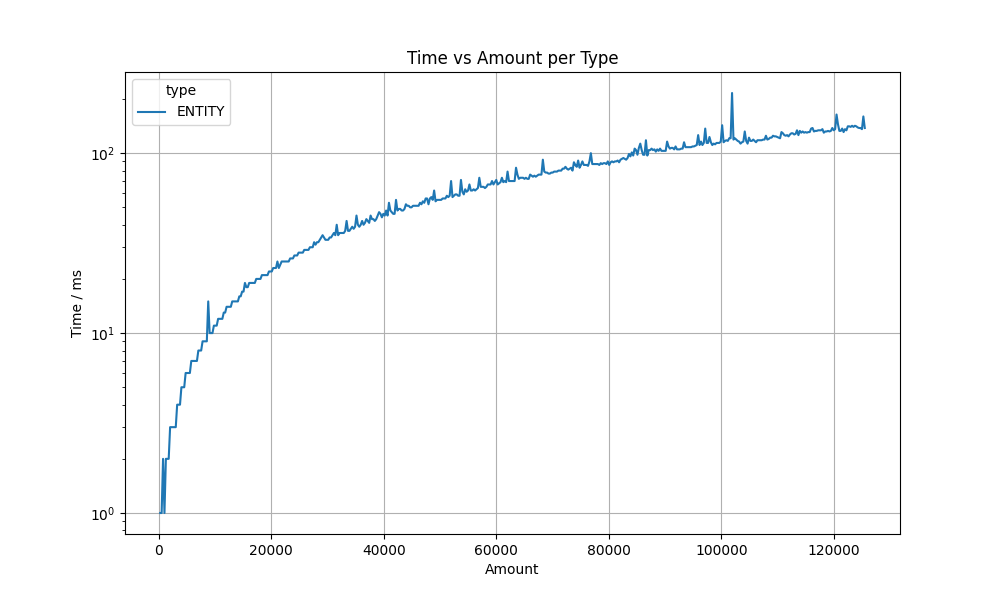
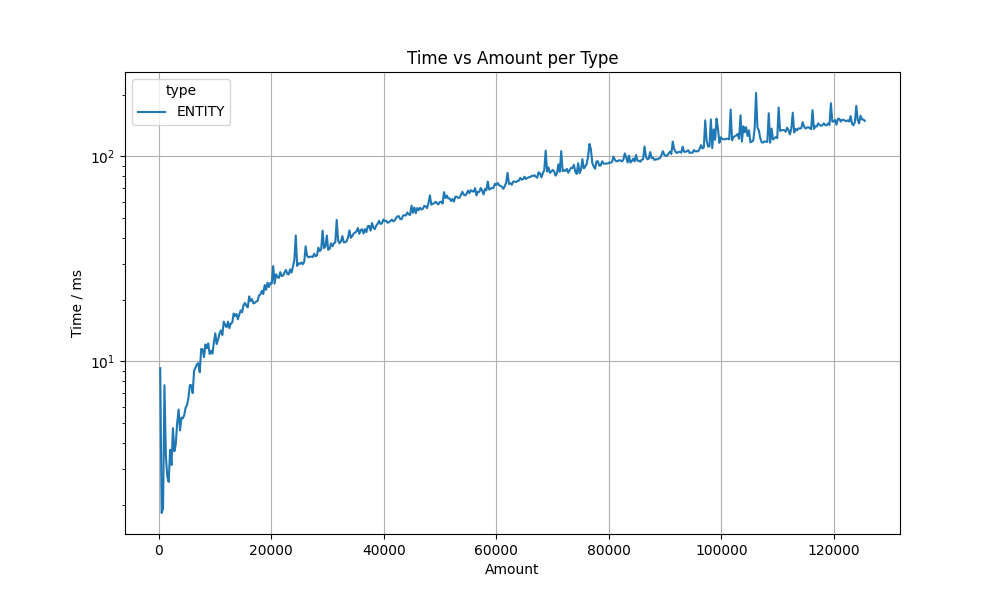
Update

diff --git a/docs/css/style.css b/docs/css/style.css
@@ -2,12 +2,6 @@ body {
     margin: 0 auto;
 }
 
-.grid-container {
-    display: grid;
-    grid-template-rows: min-content 1fr min-content;
-    min-height: 100vh;
-}
-
 .header {
     grid-row: 1;
     background-color: #333333;
@@ -16,40 +10,72 @@ body {
     justify-content: space-between;
 }
 
+.header-title {
+    display: flex;
+    align-items: center;
+    margin: 1rem;
+    font-size: 2em;
+    font-weight: bold;
+}
+
 .footer {
     grid-row: 3;
     background-color: #333333;
     color: #FFFFFF;
 }
 
+.grid-container {
+    display: grid;
+    grid-template-rows: min-content 1fr min-content;
+    height: 100vh;
+}
+
+.grid-item-content {
+    display: flex;
+    max-height: 100%;
+    overflow-y: hidden;
+}
+
 .flex-container-content {
     display: flex;
     flex-direction: row;
-    height: 100%;
+    max-height: 100%;
 }
 
 .flex-container-content-post {
     display: flex;
     flex-direction: column;
     align-items: center;
-    margin: 1rem;
+    padding: 1rem;
+    max-height: 100%;
+    overflow-y: scroll;
 }
 
 .content-flex-sidebar {
+    display: flex;
+    justify-content: center;
     flex: 0 0 15%;
-    background-color: #555555;
-    color: #FFFFFF;
+    color: #000000;
+    max-height: 100%;
+    background-image: url("../img/363b5ef0-84c4-48ae-976b-7e7e80475c17.png");
+    background-size: cover;
+    background-position: center;
 }
 
 .content-flex-content {
     flex-grow: 1;
-    background-color: #dddddd;
+    padding: 1rem;
 }
 
 .sidebar-elements {
     display: flex;
     flex-direction: column;
     align-items: center;
+}
+
+.highlight {
+    display: flex;
+    justify-content: center;
 }
 
 pre {
@@ -65,7 +91,7 @@ pre code {
     font-family: 'Courier New', Courier, monospace;
 }
 
-.btn {
+.home-button {
     background-color: DodgerBlue;
     border: none;
     color: white;
@@ -75,10 +101,16 @@ pre code {
     cursor: pointer;
 }
 
-.btn:hover {
+.home-button:hover {
     background-color: RoyalBlue;
 }
 
-.header-title {
-    margin-left: 1rem;
+.image-container {
+    display: flex;
+    justify-content: center;
+}
+
+.image {
+    width: 50%;
+    height: auto;
 }

diff --git a/docs/_layouts/post.html b/docs/_layouts/post.html
@@ -7,17 +7,14 @@
 
     <body class="grid-container">
         {% include header.html %}
-        <div class="grid-item content">
-            <div class="flex-container-content">
-                {% include sidebar.html %}
-                <div class="flex-container-content-post">
-                    <h2>{{ page.title }}</h2>
-                    <div class="post-content">
-                        {{ page.content }}
-                    </div>
-                </div>
+        <main class="grid-item-content">
+            {% include sidebar.html %}
+            <div class="flex-container-content-post">
+                <h2>{{ page.title }}</h2>
+                <div>{{ page.content }}</div>
+                <div>{{ page.code_test }}</div>
             </div>
-        </div>
+        </main>
         {% include footer.html %}
     </body>
 

diff --git a/docs/_layouts/default.html b/docs/_layouts/default.html
@@ -9,12 +9,12 @@
 
     <body class="grid-container">
         {% include header.html %}
-        <div class="grid-item content">
+        <main class="grid-item-content">
+            {% include sidebar.html %}
             <div class="flex-container-content">
-                {% include sidebar.html %}
                 {% include content.html %}
             </div>
-        </div>
+        </main>
         {% include footer.html %}
     </body>
 </html>

diff --git a/docs/_includes/header.html b/docs/_includes/header.html
@@ -1,6 +1,8 @@
-<div class="grid-item header">
-    <h1 class="header-title">{{ site.title }}</h1>
-    <a href="{{ site.baseurl }}">
-        <button class="btn"><i class="fa fa-home"></i></button>
-    </a>
-</div>
+<nav>
+    <div class="header">
+        <div class="header-title">{{ site.title }}</div>
+        <a href="{{ site.baseurl }}">
+            <button class="home-button"><i class="fa fa-home"></i></button>
+        </a>
+    </div>
+</nav>

diff --git a/docs/_includes/sidebar.html b/docs/_includes/sidebar.html
@@ -1,6 +1,6 @@
 <div class="content-flex-sidebar">
     <div class="sidebar-elements">
-        <h1>SIDEBAR</h1>
-        <p>Content</p>
+<!--        <h1>SIDEBAR</h1>-->
+<!--        <p>Content</p>-->
     </div>
 </div>

diff --git a/docs/_posts/2024-02-16-the-thing-with-the-persistence-contex.md b/docs/_posts/2024-02-16-the-thing-with-the-persistence-contex.md
@@ -35,9 +35,13 @@ application performance. Before solutions can be proposed, it is first necessary
 under what circumstances Hibernate performs dirty checks. There are several scenarios in which Hibernate
 triggers a dirty check, but the most obvious and probably most common reason is
 the [flush before the commit](https://vladmihalcea.com/the-anatomy-of-hibernate-dirty-checking/)
-of a transaction. The influence that such a dirty check can have per existing entity is shown in the following graphic.
+of a transaction. The influence that such a dirty check can have per existing entity is shown in the following graphic, 
+whereby a parent entity object with 250 child entity objects was created in each of the 500 runs, resulting in a total 
+of 125,500 objects within the database in the last run.
 
-![pc_entity_dirty_check]({{ site.baseurl }}/img/pc_entity_dirty_check.png)
+<div class="image-container">
+    <img class="image" src="{{ site.baseurl }}/img/pc_entity_dirty_check.png" alt="Dirty checks of entities">
+</div>
 
 The data was created by the initial retrieval of a set of entities that were included in the persistence context through
 this very process and thus became relevant for the dirty checks. The corresponding code is briefly presented in the
@@ -74,5 +78,17 @@ method must be executed within a transaction context. If the method is called ou
 transaction context must be started. If the method is called within a transaction context, the execution of the method
 is simply continued in this context.
 
-However, the following question remains: **If a ```flush()``` and thus a one-time dirty check is only executed at the
-end of a transaction, i.e. in this case at the end of the method, why does the runtime increase so massively?**
+To clarify the temporal influence of the dirty checks, the call to query the children (`childrenSupplier.get();`)
+was removed and thus a large part of the entities were removed from the process and thus also from the sphere of
+influence of the persistence context and the dirty checks. The influence of the entities within the persistence
+context is clearly shown in the following graphic.
+
+<div class="image-container">
+    <img class="image" src="{{ site.baseurl }}/img/pc_entity_dirty_check_clean.png" alt="Dirty checks of entities">
+</div>
+
+However, the following question remains: **If a ```flush()``` and thus a one-time dirty check is only executed at the end of a transaction, i.e. in this case
+at the end of the method, why does the runtime increase so massively, if the child entities are present in the
+persistence context?** (F.e. an iteration over 125,500 objects takes 0.95ms on average.)
+
+The answer to this behavior lies in the depths of the Hibernate code.
